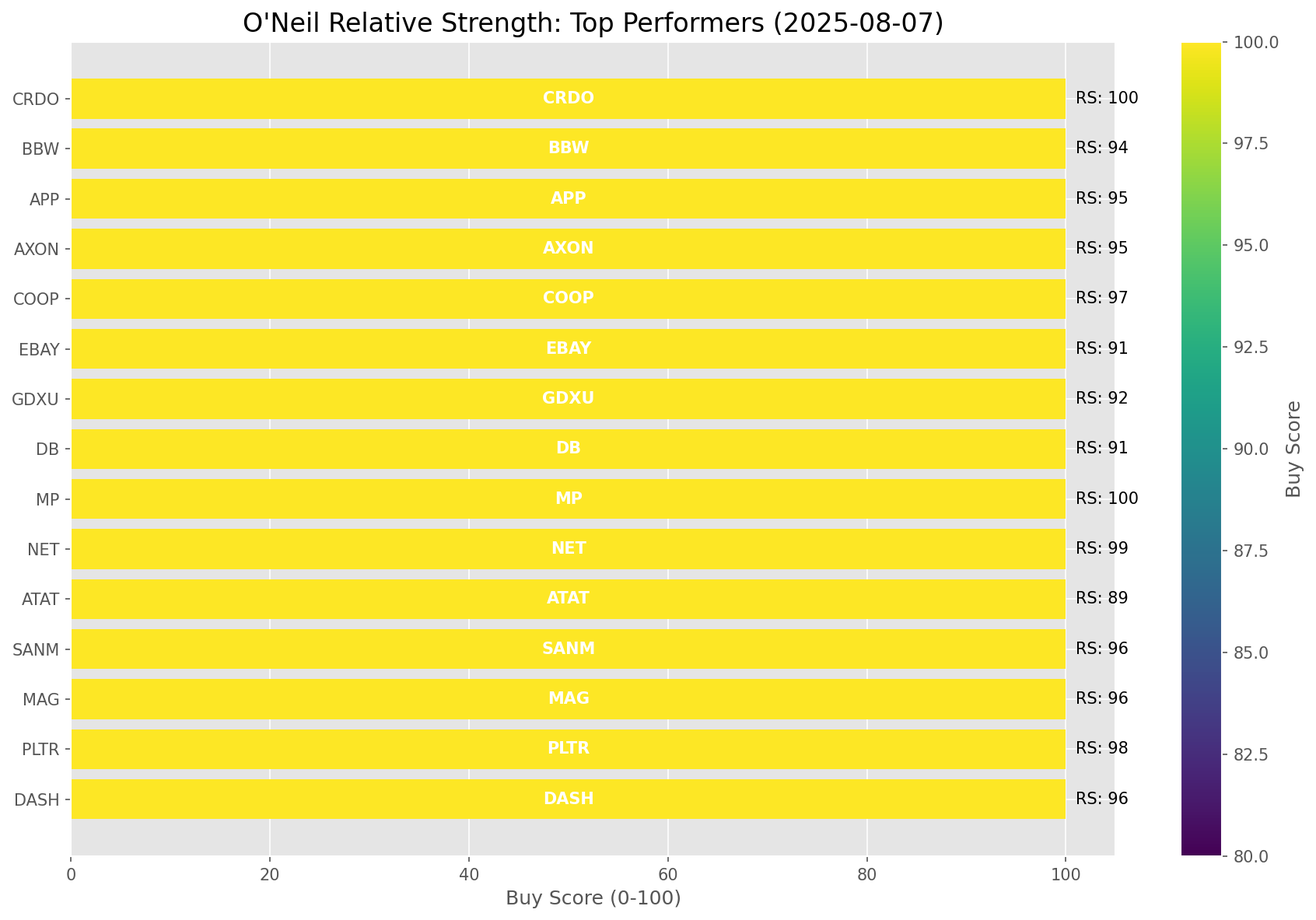
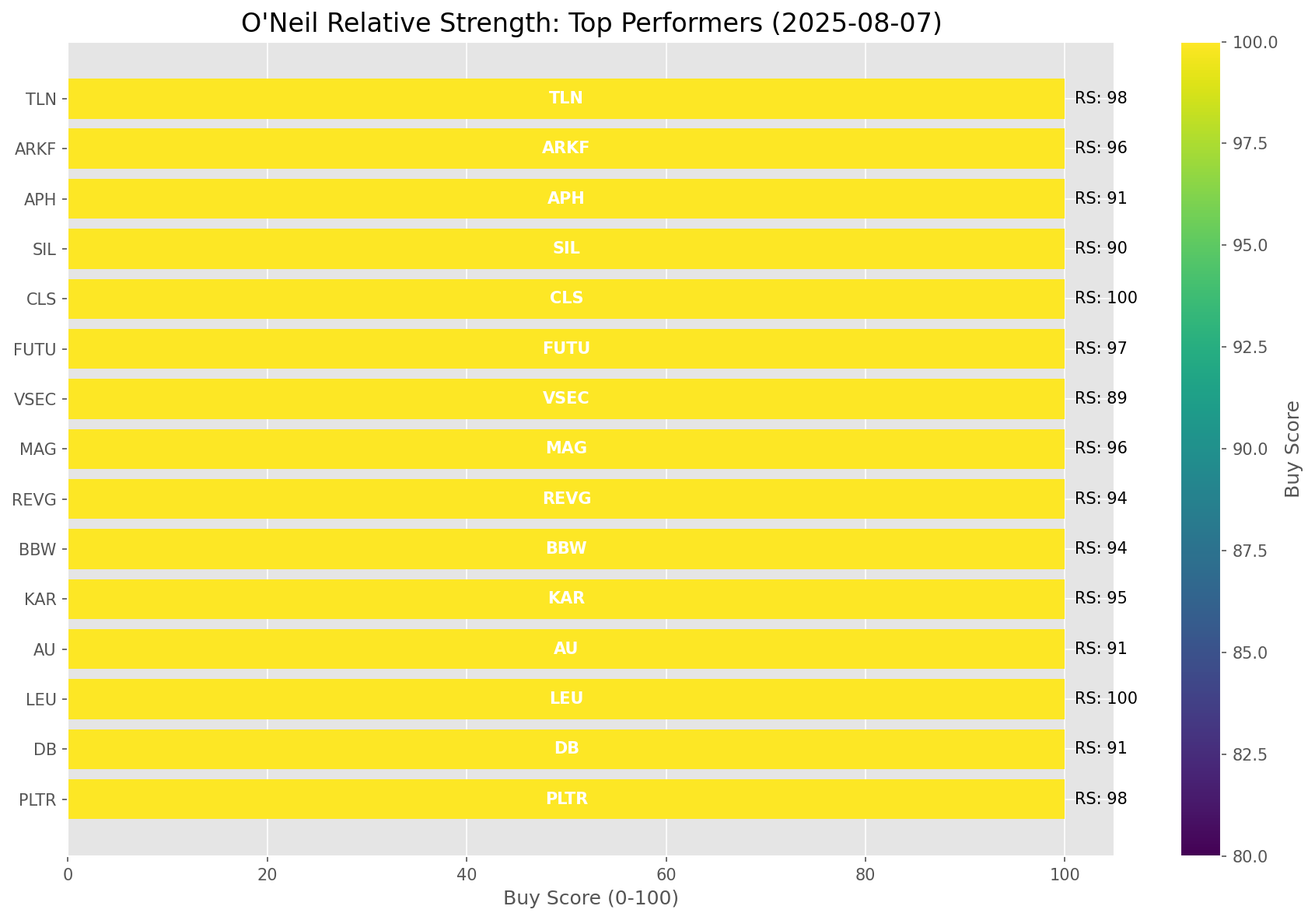
Add market report for 2025-08-07

diff --git a/oneil_relative_strength_report_2025-08-07.md b/oneil_relative_strength_report_2025-08-07.md
@@ -9,11 +9,11 @@
 | Metric | Value |
 |--------|-------|
 | **Market Valuation** | **Overvalued** |
-| **Current Ratio** | 10.26 |
+| **Current Ratio** | 10.25 |
 | **Historical Mean** | 9.64 |
 | **Standard Deviation** | 0.53 |
 | **Z-Score (StdDev from Mean)** | 1.17 |
-| **Total Market Cap** | $311.16 trillion |
+| **Total Market Cap** | $310.89 trillion |
 | **GDP** | $30.33 trillion |
 
 ## **Market Insights**
@@ -49,41 +49,41 @@ Based on William O'Neil's Relative Strength Methodology
 
 | ETF | Strength | RS Rating | Performance | Above Key MAs | Trend | Sector |
 |-----|----------|-----------|-------------|--------------|-------|--------|
-| [ARKW](https://www.tradingview.com/chart/?symbol=ARKW) | 98.5 | 97.0 | 53.80% | 10d ✓, 50d ✓, 200d ✓ | ↗ | Next Generation Internet |
-| [ARKF](https://www.tradingview.com/chart/?symbol=ARKF) | 98.0 | 96.0 | 49.93% | 10d ✓, 50d ✓, 200d ✓ | ↗ | Fintech Innovation |
-| [XLK](https://www.tradingview.com/chart/?symbol=XLK) | 91.5 | 83.0 | 22.37% | 10d ✓, 50d ✓, 200d ✓ | ↗ | Technology |
-| [AIQ](https://www.tradingview.com/chart/?symbol=AIQ) | 88.5 | 77.0 | 18.11% | 10d ✓, 50d ✓, 200d ✓ | ↗ | Artificial Intelligence & Technology |
-| [ARKK](https://www.tradingview.com/chart/?symbol=ARKK) | 88.1 | 96.0 | 49.35% | 10d ✗, 50d ✓, 200d ✓ | ↗ | Innovation |
-| [URA](https://www.tradingview.com/chart/?symbol=URA) | 88.1 | 96.0 | 50.06% | 10d ✗, 50d ✓, 200d ✓ | ↗ | Uranium |
-| [SLV](https://www.tradingview.com/chart/?symbol=SLV) | 88.0 | 76.0 | 17.70% | 10d ✓, 50d ✓, 200d ✓ | ↗ | Silver |
-| [BLOK](https://www.tradingview.com/chart/?symbol=BLOK) | 86.6 | 93.0 | 38.74% | 10d ✗, 50d ✓, 200d ✓ | ↗ | Blockchain & Cryptocurrency |
-| [XLY](https://www.tradingview.com/chart/?symbol=XLY) | 83.0 | 66.0 | 11.84% | 10d ✓, 50d ✓, 200d ✓ | ↗ | Consumer Discretionary |
-| [XLC](https://www.tradingview.com/chart/?symbol=XLC) | 81.5 | 63.0 | 10.03% | 10d ✓, 50d ✓, 200d ✓ | ↗ | Communications |
-| [IYZ](https://www.tradingview.com/chart/?symbol=IYZ) | 81.0 | 62.0 | 9.72% | 10d ✓, 50d ✓, 200d ✓ | ↗ | Telecommunications |
-| [KWEB](https://www.tradingview.com/chart/?symbol=KWEB) | 79.5 | 59.0 | 8.69% | 10d ✓, 50d ✓, 200d ✓ | ↗ | Chinese Internet |
-| [PAVE](https://www.tradingview.com/chart/?symbol=PAVE) | 76.6 | 73.0 | 15.31% | 10d ✗, 50d ✓, 200d ✓ | ↗ | Infrastructure |
-| [XLU](https://www.tradingview.com/chart/?symbol=XLU) | 76.5 | 53.0 | 6.67% | 10d ✓, 50d ✓, 200d ✓ | ↗ | Utilities |
-| [XLI](https://www.tradingview.com/chart/?symbol=XLI) | 73.1 | 66.0 | 11.82% | 10d ✗, 50d ✓, 200d ✓ | ↗ | Industrial |
-| [ICLN](https://www.tradingview.com/chart/?symbol=ICLN) | 67.0 | 74.0 | 15.78% | 10d ✓, 50d ✓, 200d ✓ | ↘ | Clean Energy |
-| [ITB](https://www.tradingview.com/chart/?symbol=ITB) | 66.0 | 72.0 | 14.18% | 10d ✓, 50d ✓, 200d ✓ | ↘ | Home Construction |
-| [GLD](https://www.tradingview.com/chart/?symbol=GLD) | 66.0 | 32.0 | 0.45% | 10d ✓, 50d ✓, 200d ✓ | ↗ | Gold |
-| [SOXX](https://www.tradingview.com/chart/?symbol=SOXX) | 63.6 | 87.0 | 26.58% | 10d ✗, 50d ✓, 200d ✓ | ↘ | Semiconductors |
-| [JETS](https://www.tradingview.com/chart/?symbol=JETS) | 62.7 | 65.0 | 11.03% | 10d ✗, 50d ✗, 200d ✓ | ↗ | Airlines |
-| [CIBR](https://www.tradingview.com/chart/?symbol=CIBR) | 53.2 | 46.0 | 4.37% | 10d ✗, 50d ✗, 200d ✓ | ↗ | Cybersecurity |
-| [XLF](https://www.tradingview.com/chart/?symbol=XLF) | 53.2 | 46.0 | 4.13% | 10d ✗, 50d ✗, 200d ✓ | ↗ | Financial |
-| [IYT](https://www.tradingview.com/chart/?symbol=IYT) | 51.1 | 62.0 | 9.77% | 10d ✗, 50d ✓, 200d ✓ | ↘ | Transportation |
-| [XLP](https://www.tradingview.com/chart/?symbol=XLP) | 45.0 | 30.0 | 0.11% | 10d ✓, 50d ✓, 200d ✓ | ↘ | Consumer Staples |
-| [DBA](https://www.tradingview.com/chart/?symbol=DBA) | 40.4 | 21.0 | -3.24% | 10d ✓, 50d ✗, 200d ✗ | ↗ | Agriculture |
-| [IBB](https://www.tradingview.com/chart/?symbol=IBB) | 39.9 | 60.0 | 9.13% | 10d ✗, 50d ✓, 200d ✗ | ↘ | Biotechnology |
-| [TLT](https://www.tradingview.com/chart/?symbol=TLT) | 35.3 | 31.0 | 0.26% | 10d ✓, 50d ✓, 200d ✗ | ↘ | Long-term Treasuries |
-| [ARKG](https://www.tradingview.com/chart/?symbol=ARKG) | 31.5 | 63.0 | 10.37% | 10d ✗, 50d ✗, 200d ✗ | ↘ | Genomics |
-| [DBC](https://www.tradingview.com/chart/?symbol=DBC) | 25.0 | 50.0 | 5.58% | 10d ✗, 50d ✗, 200d ✗ | ↘ | Commodities |
-| [UUP](https://www.tradingview.com/chart/?symbol=UUP) | 24.4 | 29.0 | -0.20% | 10d ✗, 50d ✓, 200d ✗ | ↘ | U.S. Dollar |
-| [XLE](https://www.tradingview.com/chart/?symbol=XLE) | 24.0 | 48.0 | 5.08% | 10d ✗, 50d ✗, 200d ✗ | ↘ | Energy |
-| [XLB](https://www.tradingview.com/chart/?symbol=XLB) | 24.0 | 48.0 | 5.08% | 10d ✗, 50d ✗, 200d ✗ | ↘ | Materials |
-| [IYR](https://www.tradingview.com/chart/?symbol=IYR) | 17.5 | 35.0 | 0.98% | 10d ✗, 50d ✗, 200d ✗ | ↘ | Real Estate |
-| [BIL](https://www.tradingview.com/chart/?symbol=BIL) | 15.0 | 30.0 | 0.03% | 10d ✗, 50d ✗, 200d ✗ | ↘ | Short-term Treasuries |
-| [XLV](https://www.tradingview.com/chart/?symbol=XLV) | 8.5 | 17.0 | -5.33% | 10d ✗, 50d ✗, 200d ✗ | ↘ | Healthcare |
+| [ARKW](https://www.tradingview.com/chart/?symbol=ARKW) | 98.0 | 96.0 | 53.58% | 10d ✓, 50d ✓, 200d ✓ | ↗ | Next Generation Internet |
+| [ARKF](https://www.tradingview.com/chart/?symbol=ARKF) | 98.0 | 96.0 | 49.21% | 10d ✓, 50d ✓, 200d ✓ | ↗ | Fintech Innovation |
+| [XLK](https://www.tradingview.com/chart/?symbol=XLK) | 91.0 | 82.0 | 22.18% | 10d ✓, 50d ✓, 200d ✓ | ↗ | Technology |
+| [URA](https://www.tradingview.com/chart/?symbol=URA) | 88.1 | 96.0 | 50.02% | 10d ✗, 50d ✓, 200d ✓ | ↗ | Uranium |
+| [ARKK](https://www.tradingview.com/chart/?symbol=ARKK) | 88.1 | 96.0 | 49.61% | 10d ✗, 50d ✓, 200d ✓ | ↗ | Innovation |
+| [AIQ](https://www.tradingview.com/chart/?symbol=AIQ) | 88.0 | 76.0 | 17.87% | 10d ✓, 50d ✓, 200d ✓ | ↗ | Artificial Intelligence & Technology |
+| [SLV](https://www.tradingview.com/chart/?symbol=SLV) | 88.0 | 76.0 | 17.72% | 10d ✓, 50d ✓, 200d ✓ | ↗ | Silver |
+| [BLOK](https://www.tradingview.com/chart/?symbol=BLOK) | 86.6 | 93.0 | 39.72% | 10d ✗, 50d ✓, 200d ✓ | ↗ | Blockchain & Cryptocurrency |
+| [XLY](https://www.tradingview.com/chart/?symbol=XLY) | 83.0 | 66.0 | 11.90% | 10d ✓, 50d ✓, 200d ✓ | ↗ | Consumer Discretionary |
+| [XLC](https://www.tradingview.com/chart/?symbol=XLC) | 81.0 | 62.0 | 9.99% | 10d ✓, 50d ✓, 200d ✓ | ↗ | Communications |
+| [IYZ](https://www.tradingview.com/chart/?symbol=IYZ) | 81.0 | 62.0 | 9.97% | 10d ✓, 50d ✓, 200d ✓ | ↗ | Telecommunications |
+| [KWEB](https://www.tradingview.com/chart/?symbol=KWEB) | 78.5 | 57.0 | 8.46% | 10d ✓, 50d ✓, 200d ✓ | ↗ | Chinese Internet |
+| [PAVE](https://www.tradingview.com/chart/?symbol=PAVE) | 77.1 | 74.0 | 15.82% | 10d ✗, 50d ✓, 200d ✓ | ↗ | Infrastructure |
+| [XLU](https://www.tradingview.com/chart/?symbol=XLU) | 77.0 | 54.0 | 7.23% | 10d ✓, 50d ✓, 200d ✓ | ↗ | Utilities |
+| [XLI](https://www.tradingview.com/chart/?symbol=XLI) | 73.6 | 67.0 | 12.09% | 10d ✗, 50d ✓, 200d ✓ | ↗ | Industrial |
+| [ICLN](https://www.tradingview.com/chart/?symbol=ICLN) | 67.0 | 74.0 | 15.66% | 10d ✓, 50d ✓, 200d ✓ | ↘ | Clean Energy |
+| [GLD](https://www.tradingview.com/chart/?symbol=GLD) | 66.0 | 32.0 | 0.46% | 10d ✓, 50d ✓, 200d ✓ | ↗ | Gold |
+| [ITB](https://www.tradingview.com/chart/?symbol=ITB) | 66.0 | 72.0 | 14.40% | 10d ✓, 50d ✓, 200d ✓ | ↘ | Home Construction |
+| [SOXX](https://www.tradingview.com/chart/?symbol=SOXX) | 63.6 | 87.0 | 27.04% | 10d ✗, 50d ✓, 200d ✓ | ↘ | Semiconductors |
+| [JETS](https://www.tradingview.com/chart/?symbol=JETS) | 62.7 | 65.0 | 11.20% | 10d ✗, 50d ✗, 200d ✓ | ↗ | Airlines |
+| [CIBR](https://www.tradingview.com/chart/?symbol=CIBR) | 52.7 | 45.0 | 3.90% | 10d ✗, 50d ✗, 200d ✓ | ↗ | Cybersecurity |
+| [XLF](https://www.tradingview.com/chart/?symbol=XLF) | 52.7 | 45.0 | 4.02% | 10d ✗, 50d ✗, 200d ✓ | ↗ | Financial |
+| [IYT](https://www.tradingview.com/chart/?symbol=IYT) | 51.1 | 62.0 | 9.97% | 10d ✗, 50d ✓, 200d ✓ | ↘ | Transportation |
+| [XLP](https://www.tradingview.com/chart/?symbol=XLP) | 45.5 | 31.0 | 0.39% | 10d ✓, 50d ✓, 200d ✓ | ↘ | Consumer Staples |
+| [DBA](https://www.tradingview.com/chart/?symbol=DBA) | 41.9 | 24.0 | -1.88% | 10d ✓, 50d ✗, 200d ✗ | ↗ | Agriculture |
+| [IBB](https://www.tradingview.com/chart/?symbol=IBB) | 40.4 | 61.0 | 9.81% | 10d ✗, 50d ✓, 200d ✗ | ↘ | Biotechnology |
+| [IYR](https://www.tradingview.com/chart/?symbol=IYR) | 38.6 | 37.0 | 1.51% | 10d ✗, 50d ✓, 200d ✓ | ↘ | Real Estate |
+| [TLT](https://www.tradingview.com/chart/?symbol=TLT) | 34.8 | 30.0 | 0.20% | 10d ✓, 50d ✓, 200d ✗ | ↘ | Long-term Treasuries |
+| [ARKG](https://www.tradingview.com/chart/?symbol=ARKG) | 32.5 | 65.0 | 11.19% | 10d ✗, 50d ✗, 200d ✗ | ↘ | Genomics |
+| [DBC](https://www.tradingview.com/chart/?symbol=DBC) | 25.0 | 50.0 | 5.89% | 10d ✗, 50d ✗, 200d ✗ | ↘ | Commodities |
+| [XLB](https://www.tradingview.com/chart/?symbol=XLB) | 24.5 | 49.0 | 5.63% | 10d ✗, 50d ✗, 200d ✗ | ↘ | Materials |
+| [XLE](https://www.tradingview.com/chart/?symbol=XLE) | 24.5 | 49.0 | 5.70% | 10d ✗, 50d ✗, 200d ✗ | ↘ | Energy |
+| [UUP](https://www.tradingview.com/chart/?symbol=UUP) | 23.9 | 28.0 | -0.29% | 10d ✗, 50d ✓, 200d ✗ | ↘ | U.S. Dollar |
+| [BIL](https://www.tradingview.com/chart/?symbol=BIL) | 14.5 | 29.0 | 0.04% | 10d ✗, 50d ✗, 200d ✗ | ↘ | Short-term Treasuries |
+| [XLV](https://www.tradingview.com/chart/?symbol=XLV) | 9.0 | 18.0 | -4.94% | 10d ✗, 50d ✗, 200d ✗ | ↘ | Healthcare |
 
 ### **Sector ETF Performance Interpretation**
 
@@ -100,7 +100,7 @@ This table shows the relative strength metrics for different market sectors base
 
 The current market leadership is coming from the following sectors: **Next Generation Internet, Fintech Innovation, Technology**.
 
-The **Next Generation Internet** sector (represented by **ARKW**) is showing particularly strong relative strength with an RS rating of 97.0 and performance of 53.80% vs. the S&P 500. This sector is trading above its 10-day, 50-day, 200-day moving average(s). Investors should consider focusing on high RS stocks within these leading sectors for potential outperformance.
+The **Next Generation Internet** sector (represented by **ARKW**) is showing particularly strong relative strength with an RS rating of 96.0 and performance of 53.58% vs. the S&P 500. This sector is trading above its 10-day, 50-day, 200-day moving average(s). Investors should consider focusing on high RS stocks within these leading sectors for potential outperformance.
 
 ---
 
@@ -110,124 +110,122 @@ The following 56 stocks show exceptional relative strength:
 
 | RS Rating | Buy Score | Current Price | Chart | Name | Ticker |
 |-----------|-----------|---------------|-------|------|--------|
-| 100 | 100 | $69.83 | [Chart](https://www.tradingview.com/chart/?symbol=MP) | MP Materials Corp. | MP |
-| 100 | 100 | $118.70 | [Chart](https://www.tradingview.com/chart/?symbol=CRDO) | Credo Technology Group Holding Ltd Ordinary Shares | CRDO |
-| 100 | 100 | $225.75 | [Chart](https://www.tradingview.com/chart/?symbol=LEU) | Centrus Energy Corp. | LEU |
-| 100 | 100 | $111.20 | [Chart](https://www.tradingview.com/chart/?symbol=HOOD) | Robinhood Markets, Inc. Class A Common Stock | HOOD |
-| 100 | 100 | $201.35 | [Chart](https://www.tradingview.com/chart/?symbol=CLS) | Celestica, Inc. | CLS |
-| 100 | 100 | $37.42 | [Chart](https://www.tradingview.com/chart/?symbol=GRPN) | Groupon, Inc.Common Stock | GRPN |
-| 99 | 100 | $213.00 | [Chart](https://www.tradingview.com/chart/?symbol=NET) | Cloudflare, Inc. Class A common stock, par value $0.001 per share | NET |
-| 99 | 100 | $132.42 | [Chart](https://www.tradingview.com/chart/?symbol=RBLX) | Roblox Corporation | RBLX |
-| 99 | 100 | $76.33 | [Chart](https://www.tradingview.com/chart/?symbol=LIF) | Life360, Inc. Common Stock | LIF |
-| 98 | 100 | $183.13 | [Chart](https://www.tradingview.com/chart/?symbol=PLTR) | Palantir Technologies Inc. Class A Common Stock | PLTR |
-| 98 | 100 | $375.23 | [Chart](https://www.tradingview.com/chart/?symbol=TLN) | Talen Energy Corporation Common Stock | TLN |
-| 98 | 100 | $654.30 | [Chart](https://www.tradingview.com/chart/?symbol=GEV) | GE Vernova Inc. | GEV |
-| 97 | 100 | $187.59 | [Chart](https://www.tradingview.com/chart/?symbol=COOP) | Mr. Cooper Group Inc. Common Stock | COOP |
-| 97 | 100 | $158.75 | [Chart](https://www.tradingview.com/chart/?symbol=FUTU) | Futu Holdings Limited American Depositary Shares | FUTU |
-| 97 | 100 | $157.09 | [Chart](https://www.tradingview.com/chart/?symbol=ARKW) | ARK Next Generation Internet ETF | ARKW |
-| 96 | 100 | $268.47 | [Chart](https://www.tradingview.com/chart/?symbol=DASH) | DoorDash, Inc. Class A Common Stock | DASH |
-| 96 | 100 | $22.77 | [Chart](https://www.tradingview.com/chart/?symbol=MAG) | MAG Silver Corp. | MAG |
-| 96 | 100 | $117.51 | [Chart](https://www.tradingview.com/chart/?symbol=SANM) | Sanmina  Corp | SANM |
-| 96 | 100 | $54.23 | [Chart](https://www.tradingview.com/chart/?symbol=ARKF) | ARK Fintech Innovation ETF | ARKF |
-| 95 | 100 | $872.27 | [Chart](https://www.tradingview.com/chart/?symbol=AXON) | Axon Enterprise, Inc. Common Stock | AXON |
-| 95 | 100 | $440.97 | [Chart](https://www.tradingview.com/chart/?symbol=APP) | Applovin Corporation Class A Common Stock | APP |
-| 95 | 100 | $28.05 | [Chart](https://www.tradingview.com/chart/?symbol=KAR) | OPENLANE, Inc | KAR |
+| 100 | 100 | $231.44 | [Chart](https://www.tradingview.com/chart/?symbol=LEU) | Centrus Energy Corp. | LEU |
+| 100 | 100 | $201.30 | [Chart](https://www.tradingview.com/chart/?symbol=CLS) | Celestica, Inc. | CLS |
+| 100 | 100 | $69.69 | [Chart](https://www.tradingview.com/chart/?symbol=MP) | MP Materials Corp. | MP |
+| 100 | 100 | $118.46 | [Chart](https://www.tradingview.com/chart/?symbol=CRDO) | Credo Technology Group Holding Ltd Ordinary Shares | CRDO |
+| 100 | 100 | $36.78 | [Chart](https://www.tradingview.com/chart/?symbol=GRPN) | Groupon, Inc.Common Stock | GRPN |
+| 100 | 100 | $110.92 | [Chart](https://www.tradingview.com/chart/?symbol=HOOD) | Robinhood Markets, Inc. Class A Common Stock | HOOD |
+| 99 | 100 | $208.93 | [Chart](https://www.tradingview.com/chart/?symbol=NET) | Cloudflare, Inc. Class A common stock, par value $0.001 per share | NET |
+| 99 | 100 | $130.13 | [Chart](https://www.tradingview.com/chart/?symbol=RBLX) | Roblox Corporation | RBLX |
+| 98 | 100 | $183.50 | [Chart](https://www.tradingview.com/chart/?symbol=PLTR) | Palantir Technologies Inc. Class A Common Stock | PLTR |
+| 98 | 100 | $376.79 | [Chart](https://www.tradingview.com/chart/?symbol=TLN) | Talen Energy Corporation Common Stock | TLN |
+| 97 | 100 | $156.77 | [Chart](https://www.tradingview.com/chart/?symbol=FUTU) | Futu Holdings Limited American Depositary Shares | FUTU |
+| 97 | 100 | $187.53 | [Chart](https://www.tradingview.com/chart/?symbol=COOP) | Mr. Cooper Group Inc. Common Stock | COOP |
+| 96 | 100 | $22.79 | [Chart](https://www.tradingview.com/chart/?symbol=MAG) | MAG Silver Corp. | MAG |
+| 96 | 100 | $53.97 | [Chart](https://www.tradingview.com/chart/?symbol=ARKF) | ARK Fintech Innovation ETF | ARKF |
+| 96 | 100 | $105.27 | [Chart](https://www.tradingview.com/chart/?symbol=VRNA) | Verona Pharma plc | VRNA |
+| 96 | 100 | $268.36 | [Chart](https://www.tradingview.com/chart/?symbol=DASH) | DoorDash, Inc. Class A Common Stock | DASH |
+| 96 | 100 | $118.62 | [Chart](https://www.tradingview.com/chart/?symbol=SANM) | Sanmina  Corp | SANM |
+| 96 | 100 | $157.54 | [Chart](https://www.tradingview.com/chart/?symbol=ARKW) | ARK Next Generation Internet ETF | ARKW |
+| 95 | 100 | $27.86 | [Chart](https://www.tradingview.com/chart/?symbol=KAR) | OPENLANE, Inc | KAR |
+| 95 | 100 | $440.30 | [Chart](https://www.tradingview.com/chart/?symbol=APP) | Applovin Corporation Class A Common Stock | APP |
 | 94 | 100 | $51.28 | [Chart](https://www.tradingview.com/chart/?symbol=BBW) | Build-A-Bear Workshop, Inc. | BBW |
 | 94 | 100 | $50.42 | [Chart](https://www.tradingview.com/chart/?symbol=REVG) | REV Group, Inc. | REVG |
-| 93 | 100 | $89.40 | [Chart](https://www.tradingview.com/chart/?symbol=RYTM) | Rhythm Pharmaceuticals, Inc. Common Stock | RYTM |
-| 93 | 100 | $355.61 | [Chart](https://www.tradingview.com/chart/?symbol=CVNA) | Carvana Co. | CVNA |
-| 92 | 100 | $92.28 | [Chart](https://www.tradingview.com/chart/?symbol=GDXU) | MicroSectors Gold Miners 3x Leveraged ETN | GDXU |
-| 91 | 100 | $35.43 | [Chart](https://www.tradingview.com/chart/?symbol=DB) | Deutsche Bank Aktiengesellschaft | DB |
-| 91 | 100 | $92.83 | [Chart](https://www.tradingview.com/chart/?symbol=EBAY) | eBay Inc | EBAY |
-| 91 | 100 | $58.16 | [Chart](https://www.tradingview.com/chart/?symbol=AU) | AngloGold Ashanti plc | AU |
-| 91 | 100 | $108.29 | [Chart](https://www.tradingview.com/chart/?symbol=APH) | Amphenol Corporation | APH |
-| 91 | 100 | $156.19 | [Chart](https://www.tradingview.com/chart/?symbol=VSEC) | VSE Corp | VSEC |
-| 90 | 100 | $53.54 | [Chart](https://www.tradingview.com/chart/?symbol=SIL) | Global X Silver Miners ETF (NEW) | SIL |
-| 90 | 100 | $42.99 | [Chart](https://www.tradingview.com/chart/?symbol=LTM) | LATAM Airlines Group S.A. American Depositary Shares (each representing two thousand (2,000) shares of Common Stock) | LTM |
-| 89 | 100 | $34.58 | [Chart](https://www.tradingview.com/chart/?symbol=ATAT) | Atour Lifestyle Holdings Limited American Depositary Shares | ATAT |
-| 87 | 99 | $56.31 | [Chart](https://www.tradingview.com/chart/?symbol=BTI) | British American Tobacco p.l.c. American Depositary Shares, American Depositary Shares, each representing one Ordinary Share | BTI |
-| 87 | 98 | $31.20 | [Chart](https://www.tradingview.com/chart/?symbol=PAAS) | Pan American Silver Corp. | PAAS |
-| 86 | 98 | $30.00 | [Chart](https://www.tradingview.com/chart/?symbol=OR) | OR Royalties Inc. | OR |
-| 84 | 98 | $19.62 | [Chart](https://www.tradingview.com/chart/?symbol=BCS) | Barclays PLC | BCS |
-| 87 | 97 | $19.66 | [Chart](https://www.tradingview.com/chart/?symbol=LQDA) | Liquidia Corporation Common Stock | LQDA |
+| 94 | 100 | $864.09 | [Chart](https://www.tradingview.com/chart/?symbol=AXON) | Axon Enterprise, Inc. Common Stock | AXON |
+| 93 | 100 | $89.60 | [Chart](https://www.tradingview.com/chart/?symbol=RYTM) | Rhythm Pharmaceuticals, Inc. Common Stock | RYTM |
+| 92 | 100 | $93.12 | [Chart](https://www.tradingview.com/chart/?symbol=GDXU) | MicroSectors Gold Miners 3x Leveraged ETN | GDXU |
+| 92 | 100 | $355.97 | [Chart](https://www.tradingview.com/chart/?symbol=CVNA) | Carvana Co. | CVNA |
+| 91 | 100 | $35.57 | [Chart](https://www.tradingview.com/chart/?symbol=DB) | Deutsche Bank Aktiengesellschaft | DB |
+| 91 | 100 | $58.59 | [Chart](https://www.tradingview.com/chart/?symbol=AU) | AngloGold Ashanti plc | AU |
+| 91 | 100 | $108.83 | [Chart](https://www.tradingview.com/chart/?symbol=APH) | Amphenol Corporation | APH |
+| 91 | 100 | $43.74 | [Chart](https://www.tradingview.com/chart/?symbol=LTM) | LATAM Airlines Group S.A. American Depositary Shares (each representing two thousand (2,000) shares of Common Stock) | LTM |
+| 91 | 100 | $92.64 | [Chart](https://www.tradingview.com/chart/?symbol=EBAY) | eBay Inc | EBAY |
+| 90 | 100 | $53.68 | [Chart](https://www.tradingview.com/chart/?symbol=SIL) | Global X Silver Miners ETF (NEW) | SIL |
+| 89 | 100 | $154.32 | [Chart](https://www.tradingview.com/chart/?symbol=VSEC) | VSE Corp | VSEC |
+| 89 | 100 | $34.67 | [Chart](https://www.tradingview.com/chart/?symbol=ATAT) | Atour Lifestyle Holdings Limited American Depositary Shares | ATAT |
+| 87 | 99 | $56.45 | [Chart](https://www.tradingview.com/chart/?symbol=BTI) | British American Tobacco p.l.c. American Depositary Shares, American Depositary Shares, each representing one Ordinary Share | BTI |
+| 87 | 98 | $31.27 | [Chart](https://www.tradingview.com/chart/?symbol=PAAS) | Pan American Silver Corp. | PAAS |
+| 87 | 98 | $50.35 | [Chart](https://www.tradingview.com/chart/?symbol=GH) | Guardant Health, Inc. Common Stock | GH |
+| 86 | 98 | $30.19 | [Chart](https://www.tradingview.com/chart/?symbol=OR) | OR Royalties Inc. | OR |
+| 84 | 98 | $19.70 | [Chart](https://www.tradingview.com/chart/?symbol=BCS) | Barclays PLC | BCS |
 | 87 | 97 | $190.87 | [Chart](https://www.tradingview.com/chart/?symbol=AWI) | Armstrong World Industries, Inc. | AWI |
-| 86 | 97 | $50.23 | [Chart](https://www.tradingview.com/chart/?symbol=GH) | Guardant Health, Inc. Common Stock | GH |
-| 82 | 96 | $39.69 | [Chart](https://www.tradingview.com/chart/?symbol=AHR) | American Healthcare REIT, Inc. | AHR |
-| 85 | 95 | $50.72 | [Chart](https://www.tradingview.com/chart/?symbol=PTCT) | PTC Therapeutics, Inc. | PTCT |
-| 82 | 95 | $57.00 | [Chart](https://www.tradingview.com/chart/?symbol=ERJ) | Embraer S.A. | ERJ |
-| 84 | 94 | $97.02 | [Chart](https://www.tradingview.com/chart/?symbol=NDAQ) | Nasdaq, Inc. Common Stock | NDAQ |
-| 83 | 94 | $115.17 | [Chart](https://www.tradingview.com/chart/?symbol=SXT) | Sensient Technology Corporation | SXT |
-| 82 | 94 | $321.23 | [Chart](https://www.tradingview.com/chart/?symbol=FFIV) | F5, Inc. Common Stock | FFIV |
-| 82 | 94 | $101.95 | [Chart](https://www.tradingview.com/chart/?symbol=BK) | Bank of New York Mellon Corporation | BK |
-| 82 | 93 | $26.63 | [Chart](https://www.tradingview.com/chart/?symbol=TFPM) | Triple Flag Precious Metals Corp. | TFPM |
-| 81 | 92 | $32.93 | [Chart](https://www.tradingview.com/chart/?symbol=HODL) | VanEck Bitcoin ETF | HODL |
+| 83 | 97 | $40.05 | [Chart](https://www.tradingview.com/chart/?symbol=AHR) | American Healthcare REIT, Inc. | AHR |
+| 86 | 96 | $19.55 | [Chart](https://www.tradingview.com/chart/?symbol=LQDA) | Liquidia Corporation Common Stock | LQDA |
+| 85 | 95 | $50.97 | [Chart](https://www.tradingview.com/chart/?symbol=PTCT) | PTC Therapeutics, Inc. | PTCT |
+| 82 | 95 | $57.30 | [Chart](https://www.tradingview.com/chart/?symbol=ERJ) | Embraer S.A. | ERJ |
+| 84 | 94 | $96.83 | [Chart](https://www.tradingview.com/chart/?symbol=NDAQ) | Nasdaq, Inc. Common Stock | NDAQ |
+| 83 | 94 | $26.80 | [Chart](https://www.tradingview.com/chart/?symbol=TFPM) | Triple Flag Precious Metals Corp. | TFPM |
+| 83 | 94 | $115.69 | [Chart](https://www.tradingview.com/chart/?symbol=SXT) | Sensient Technology Corporation | SXT |
+| 82 | 94 | $102.04 | [Chart](https://www.tradingview.com/chart/?symbol=BK) | Bank of New York Mellon Corporation | BK |
+| 83 | 93 | $261.77 | [Chart](https://www.tradingview.com/chart/?symbol=WTS) | Watts Water Technologies, Inc. Class A | WTS |
+| 81 | 93 | $321.23 | [Chart](https://www.tradingview.com/chart/?symbol=FFIV) | F5, Inc. Common Stock | FFIV |
+| 81 | 92 | $66.33 | [Chart](https://www.tradingview.com/chart/?symbol=IBIT) | iShares Bitcoin Trust ETF | IBIT |
+| 81 | 92 | $33.01 | [Chart](https://www.tradingview.com/chart/?symbol=HODL) | VanEck Bitcoin ETF | HODL |
 | 81 | 92 | $147.37 | [Chart](https://www.tradingview.com/chart/?symbol=PPA) | Invesco Aerospace & Defense ETF | PPA |
-| 81 | 91 | $66.16 | [Chart](https://www.tradingview.com/chart/?symbol=IBIT) | iShares Bitcoin Trust ETF | IBIT |
+| 81 | 91 | $17.68 | [Chart](https://www.tradingview.com/chart/?symbol=DAN) | Dana Incorporated | DAN |
 | 80 | 91 | $242.99 | [Chart](https://www.tradingview.com/chart/?symbol=BAP) | Credicorp LTD | BAP |
-| 80 | 90 | $17.61 | [Chart](https://www.tradingview.com/chart/?symbol=DAN) | Dana Incorporated | DAN |
-| 80 | 90 | $50.94 | [Chart](https://www.tradingview.com/chart/?symbol=FHI) | Federated Hermes, Inc. | FHI |
+| 80 | 90 | $50.90 | [Chart](https://www.tradingview.com/chart/?symbol=FHI) | Federated Hermes, Inc. | FHI |
 
 ---
 
 
 ## **Sell Recommendations**
 
-The following 52 stocks show deteriorating relative strength:
+The following 50 stocks show deteriorating relative strength:
 
 | RS Rating | Sell Score | Current Price | Chart | Name | Ticker |
 |-----------|------------|---------------|-------|------|--------|
-| 1 | 100 | $11.62 | [Chart](https://www.tradingview.com/chart/?symbol=NVDS) | Investment Managers Series Trust II Tradr 1.5X Short NVDA Daily ETF | NVDS |
-| 2 | 100 | $22.84 | [Chart](https://www.tradingview.com/chart/?symbol=ZSL) | ProShares UltraShort Silver | ZSL |
-| 2 | 100 | $16.25 | [Chart](https://www.tradingview.com/chart/?symbol=DJT) | Trump Media & Technology Group Corp. Common Stock | DJT |
-| 3 | 100 | $13.71 | [Chart](https://www.tradingview.com/chart/?symbol=CLBT) | Cellebrite DI Ltd. Class A Ordinary Shares | CLBT |
-| 3 | 100 | $39.91 | [Chart](https://www.tradingview.com/chart/?symbol=PRCT) | PROCEPT BioRobotics Corporation Common Stock | PRCT |
-| 3 | 100 | $38.80 | [Chart](https://www.tradingview.com/chart/?symbol=INTA) | Intapp, Inc. Common Stock | INTA |
+| 1 | 100 | $11.68 | [Chart](https://www.tradingview.com/chart/?symbol=NVDS) | Investment Managers Series Trust II Tradr 1.5X Short NVDA Daily ETF | NVDS |
+| 2 | 100 | $22.87 | [Chart](https://www.tradingview.com/chart/?symbol=ZSL) | ProShares UltraShort Silver | ZSL |
+| 2 | 100 | $16.50 | [Chart](https://www.tradingview.com/chart/?symbol=DJT) | Trump Media & Technology Group Corp. Common Stock | DJT |
+| 2 | 100 | $38.11 | [Chart](https://www.tradingview.com/chart/?symbol=INTA) | Intapp, Inc. Common Stock | INTA |
+| 3 | 100 | $13.62 | [Chart](https://www.tradingview.com/chart/?symbol=CLBT) | Cellebrite DI Ltd. Class A Ordinary Shares | CLBT |
+| 4 | 100 | $41.55 | [Chart](https://www.tradingview.com/chart/?symbol=PRCT) | PROCEPT BioRobotics Corporation Common Stock | PRCT |
 | 4 | 100 | $24.34 | [Chart](https://www.tradingview.com/chart/?symbol=TBBB) | BBB Foods Inc. | TBBB |
-| 6 | 100 | $42.34 | [Chart](https://www.tradingview.com/chart/?symbol=SDOW) | ProShares UltraPro Short Dow 30 | SDOW |
-| 7 | 100 | $11.24 | [Chart](https://www.tradingview.com/chart/?symbol=SHC) | Sotera Health Company Common Stock | SHC |
-| 8 | 100 | $10.45 | [Chart](https://www.tradingview.com/chart/?symbol=OEC) | Orion S.A. | OEC |
-| 9 | 100 | $24.62 | [Chart](https://www.tradingview.com/chart/?symbol=DXD) | ProShares UltraShort Dow 30 | DXD |
-| 9 | 100 | $12.79 | [Chart](https://www.tradingview.com/chart/?symbol=EWTX) | Edgewise Therapeutics, Inc. Common Stock | EWTX |
-| 10 | 100 | $39.09 | [Chart](https://www.tradingview.com/chart/?symbol=SH) | ProShares Short S&P500 | SH |
-| 10 | 100 | $41.11 | [Chart](https://www.tradingview.com/chart/?symbol=BILL) | BILL Holdings, Inc. | BILL |
-| 10 | 100 | $54.95 | [Chart](https://www.tradingview.com/chart/?symbol=HRB) | H&R Block, Inc. | HRB |
+| 6 | 100 | $42.24 | [Chart](https://www.tradingview.com/chart/?symbol=SDOW) | ProShares UltraPro Short Dow 30 | SDOW |
+| 9 | 100 | $24.58 | [Chart](https://www.tradingview.com/chart/?symbol=DXD) | ProShares UltraShort Dow 30 | DXD |
+| 9 | 100 | $40.69 | [Chart](https://www.tradingview.com/chart/?symbol=BILL) | BILL Holdings, Inc. | BILL |
+| 10 | 100 | $55.03 | [Chart](https://www.tradingview.com/chart/?symbol=HRB) | H&R Block, Inc. | HRB |
+| 10 | 100 | $10.65 | [Chart](https://www.tradingview.com/chart/?symbol=OEC) | Orion S.A. | OEC |
+| 10 | 100 | $39.06 | [Chart](https://www.tradingview.com/chart/?symbol=SH) | ProShares Short S&P500 | SH |
 | 13 | 100 | $16.35 | [Chart](https://www.tradingview.com/chart/?symbol=CTO) | CTO Realty Growth, Inc. | CTO |
-| 16 | 100 | $31.62 | [Chart](https://www.tradingview.com/chart/?symbol=JD) | JD.com, Inc. | JD |
+| 15 | 100 | $31.61 | [Chart](https://www.tradingview.com/chart/?symbol=JD) | JD.com, Inc. | JD |
 | 11 | 99 | $36.69 | [Chart](https://www.tradingview.com/chart/?symbol=LZB) | La-Z-Boy Incorporated | LZB |
-| 8 | 97 | $20.21 | [Chart](https://www.tradingview.com/chart/?symbol=GAP) | The Gap, Inc. | GAP |
-| 12 | 97 | $12.20 | [Chart](https://www.tradingview.com/chart/?symbol=CCRN) | Cross Country Healthcare Inc | CCRN |
-| 10 | 96 | $21.77 | [Chart](https://www.tradingview.com/chart/?symbol=HELE) | Helen Of Troy Ltd | HELE |
-| 11 | 95 | $225.80 | [Chart](https://www.tradingview.com/chart/?symbol=WDAY) | Workday, Inc. Class A Common Stock | WDAY |
-| 16 | 94 | $13.03 | [Chart](https://www.tradingview.com/chart/?symbol=GOOD) | Gladstone Commercial Corporation - REIT | GOOD |
+| 11 | 98 | $12.99 | [Chart](https://www.tradingview.com/chart/?symbol=EWTX) | Edgewise Therapeutics, Inc. Common Stock | EWTX |
+| 8 | 97 | $20.18 | [Chart](https://www.tradingview.com/chart/?symbol=GAP) | The Gap, Inc. | GAP |
+| 10 | 96 | $21.73 | [Chart](https://www.tradingview.com/chart/?symbol=HELE) | Helen Of Troy Ltd | HELE |
+| 10 | 96 | $222.44 | [Chart](https://www.tradingview.com/chart/?symbol=WDAY) | Workday, Inc. Class A Common Stock | WDAY |
+| 14 | 95 | $12.49 | [Chart](https://www.tradingview.com/chart/?symbol=CCRN) | Cross Country Healthcare Inc | CCRN |
+| 17 | 93 | $13.07 | [Chart](https://www.tradingview.com/chart/?symbol=GOOD) | Gladstone Commercial Corporation - REIT | GOOD |
 | 10 | 92 | $15.34 | [Chart](https://www.tradingview.com/chart/?symbol=PLSE) | Pulse Biosciences, Inc Common Stock (DE) | PLSE |
-| 19 | 91 | $22.48 | [Chart](https://www.tradingview.com/chart/?symbol=CURB) | Curbline Properties Corp. | CURB |
-| 16 | 90 | $36.97 | [Chart](https://www.tradingview.com/chart/?symbol=PBA) | PEMBINA PIPELINE CORPORATION | PBA |
-| 20 | 89 | $37.50 | [Chart](https://www.tradingview.com/chart/?symbol=VNO) | Vornado Realty Trust | VNO |
-| 21 | 88 | $46.15 | [Chart](https://www.tradingview.com/chart/?symbol=EDU) | New Oriental Education and Technology Group, Inc. American Depositary Shares (each representing ten (10) Common Shares) | EDU |
+| 20 | 92 | $22.49 | [Chart](https://www.tradingview.com/chart/?symbol=CURB) | Curbline Properties Corp. | CURB |
+| 16 | 90 | $37.05 | [Chart](https://www.tradingview.com/chart/?symbol=PBA) | PEMBINA PIPELINE CORPORATION | PBA |
+| 15 | 89 | $25.84 | [Chart](https://www.tradingview.com/chart/?symbol=FCPT) | Four Corners Property Trust, Inc. | FCPT |
+| 20 | 89 | $45.98 | [Chart](https://www.tradingview.com/chart/?symbol=EDU) | New Oriental Education and Technology Group, Inc. American Depositary Shares (each representing ten (10) Common Shares) | EDU |
+| 21 | 88 | $37.69 | [Chart](https://www.tradingview.com/chart/?symbol=VNO) | Vornado Realty Trust | VNO |
 | 19 | 87 | $12.16 | [Chart](https://www.tradingview.com/chart/?symbol=WSR) | Whitestone REIT | WSR |
-| 26 | 86 | $44.59 | [Chart](https://www.tradingview.com/chart/?symbol=EPI) | WisdomTree India Earnings Fund ETF | EPI |
-| 22 | 85 | $19.09 | [Chart](https://www.tradingview.com/chart/?symbol=AVBP) | ArriVent BioPharma, Inc. Common Stock | AVBP |
-| 16 | 84 | $25.75 | [Chart](https://www.tradingview.com/chart/?symbol=DOG) | ProShares Short Dow30 | DOG |
-| 17 | 84 | $10.04 | [Chart](https://www.tradingview.com/chart/?symbol=BRKL) | Brookline Bancorp Inc | BRKL |
-| 20 | 84 | $17.35 | [Chart](https://www.tradingview.com/chart/?symbol=DIV) | Global X SuperDividend U.S. ETF | DIV |
-| 27 | 82 | $12.29 | [Chart](https://www.tradingview.com/chart/?symbol=RQI) | COHEN & STEERS QUALITY INCOME REALTY FUND, INC. COMMON SHARES | RQI |
-| 19 | 81 | $61.11 | [Chart](https://www.tradingview.com/chart/?symbol=UL) | Unilever plc | UL |
-| 26 | 80 | $13.56 | [Chart](https://www.tradingview.com/chart/?symbol=KROS) | Keros Therapeutics, Inc. Common Stock | KROS |
-| 26 | 80 | $48.16 | [Chart](https://www.tradingview.com/chart/?symbol=FR) | First Industrial Realty Trust, Inc. | FR |
-| 30 | 79 | $50.25 | [Chart](https://www.tradingview.com/chart/?symbol=XHLF) | BondBloxx Bloomberg Six Month Target Duration US Treasury ETF | XHLF |
-| 29 | 78 | $50.73 | [Chart](https://www.tradingview.com/chart/?symbol=LW) | Lamb Weston Holdings, Inc. | LW |
-| 36 | 78 | $47.80 | [Chart](https://www.tradingview.com/chart/?symbol=SPHD) | Invesco S&P 500 High Dividend Low Volatility ETF | SPHD |
-| 28 | 76 | $68.37 | [Chart](https://www.tradingview.com/chart/?symbol=PYPL) | PayPal Holdings, Inc. Common Stock | PYPL |
-| 31 | 76 | $30.75 | [Chart](https://www.tradingview.com/chart/?symbol=FLRN) | SPDR Bloomberg Investment Grade Floating Rate ETF | FLRN |
-| 32 | 76 | $89.29 | [Chart](https://www.tradingview.com/chart/?symbol=VNQ) | Vanguard Real Estate ETF | VNQ |
-| 33 | 74 | $15.53 | [Chart](https://www.tradingview.com/chart/?symbol=HQH) | abrdn Healthcare Investors | HQH |
-| 29 | 73 | $23.70 | [Chart](https://www.tradingview.com/chart/?symbol=FFBC) | First Financial Bancorp | FFBC |
+| 21 | 86 | $19.09 | [Chart](https://www.tradingview.com/chart/?symbol=AVBP) | ArriVent BioPharma, Inc. Common Stock | AVBP |
+| 24 | 85 | $11.78 | [Chart](https://www.tradingview.com/chart/?symbol=NVG) | Nuveen AMT-Free Municipal Credit Income Fund | NVG |
+| 26 | 85 | $44.60 | [Chart](https://www.tradingview.com/chart/?symbol=EPI) | WisdomTree India Earnings Fund ETF | EPI |
+| 21 | 83 | $16.17 | [Chart](https://www.tradingview.com/chart/?symbol=FIHL) | Fidelis Insurance Holdings Limited | FIHL |
+| 19 | 81 | $61.13 | [Chart](https://www.tradingview.com/chart/?symbol=UL) | Unilever plc | UL |
+| 19 | 81 | $10.10 | [Chart](https://www.tradingview.com/chart/?symbol=BRKL) | Brookline Bancorp Inc | BRKL |
+| 28 | 80 | $48.49 | [Chart](https://www.tradingview.com/chart/?symbol=FR) | First Industrial Realty Trust, Inc. | FR |
+| 28 | 80 | $12.35 | [Chart](https://www.tradingview.com/chart/?symbol=RQI) | COHEN & STEERS QUALITY INCOME REALTY FUND, INC. COMMON SHARES | RQI |
+| 29 | 80 | $50.25 | [Chart](https://www.tradingview.com/chart/?symbol=XHLF) | BondBloxx Bloomberg Six Month Target Duration US Treasury ETF | XHLF |
+| 26 | 77 | $68.08 | [Chart](https://www.tradingview.com/chart/?symbol=PYPL) | PayPal Holdings, Inc. Common Stock | PYPL |
+| 31 | 75 | $30.75 | [Chart](https://www.tradingview.com/chart/?symbol=FLRN) | SPDR Bloomberg Investment Grade Floating Rate ETF | FLRN |
+| 28 | 74 | $23.70 | [Chart](https://www.tradingview.com/chart/?symbol=FFBC) | First Financial Bancorp | FFBC |
+| 34 | 73 | $89.75 | [Chart](https://www.tradingview.com/chart/?symbol=VNQ) | Vanguard Real Estate ETF | VNQ |
+| 34 | 73 | $15.57 | [Chart](https://www.tradingview.com/chart/?symbol=HQH) | abrdn Healthcare Investors | HQH |
 | 29 | 72 | $23.30 | [Chart](https://www.tradingview.com/chart/?symbol=IBTF) | iShares iBonds Dec 2025 Term Treasury ETF | IBTF |
-| 34 | 69 | $12.46 | [Chart](https://www.tradingview.com/chart/?symbol=NU) | Nu Holdings Ltd. | NU |
-| 35 | 68 | $23.62 | [Chart](https://www.tradingview.com/chart/?symbol=COLB) | Columbia Banking Systems Inc | COLB |
-| 39 | 68 | $24.13 | [Chart](https://www.tradingview.com/chart/?symbol=FLBL) | Franklin Senior Loan ETF | FLBL |
-| 39 | 68 | $42.77 | [Chart](https://www.tradingview.com/chart/?symbol=SPYD) | SPDR Portfolio S&P 500 High Dividend ETF | SPYD |
-| 38 | 67 | $96.18 | [Chart](https://www.tradingview.com/chart/?symbol=RWR) | SPDR Dow Jones REIT ETF | RWR |
+| 31 | 72 | $12.41 | [Chart](https://www.tradingview.com/chart/?symbol=NU) | Nu Holdings Ltd. | NU |
+| 38 | 69 | $24.13 | [Chart](https://www.tradingview.com/chart/?symbol=FLBL) | Franklin Senior Loan ETF | FLBL |
+| 37 | 68 | $96.18 | [Chart](https://www.tradingview.com/chart/?symbol=RWR) | SPDR Dow Jones REIT ETF | RWR |
+| 38 | 68 | $51.67 | [Chart](https://www.tradingview.com/chart/?symbol=LW) | Lamb Weston Holdings, Inc. | LW |
+| 37 | 65 | $23.72 | [Chart](https://www.tradingview.com/chart/?symbol=COLB) | Columbia Banking Systems Inc | COLB |
+| 39 | 64 | $54.31 | [Chart](https://www.tradingview.com/chart/?symbol=ALRM) | Alarm.com Holdings, Inc. | ALRM |
 
 ## **Methodology**
 
